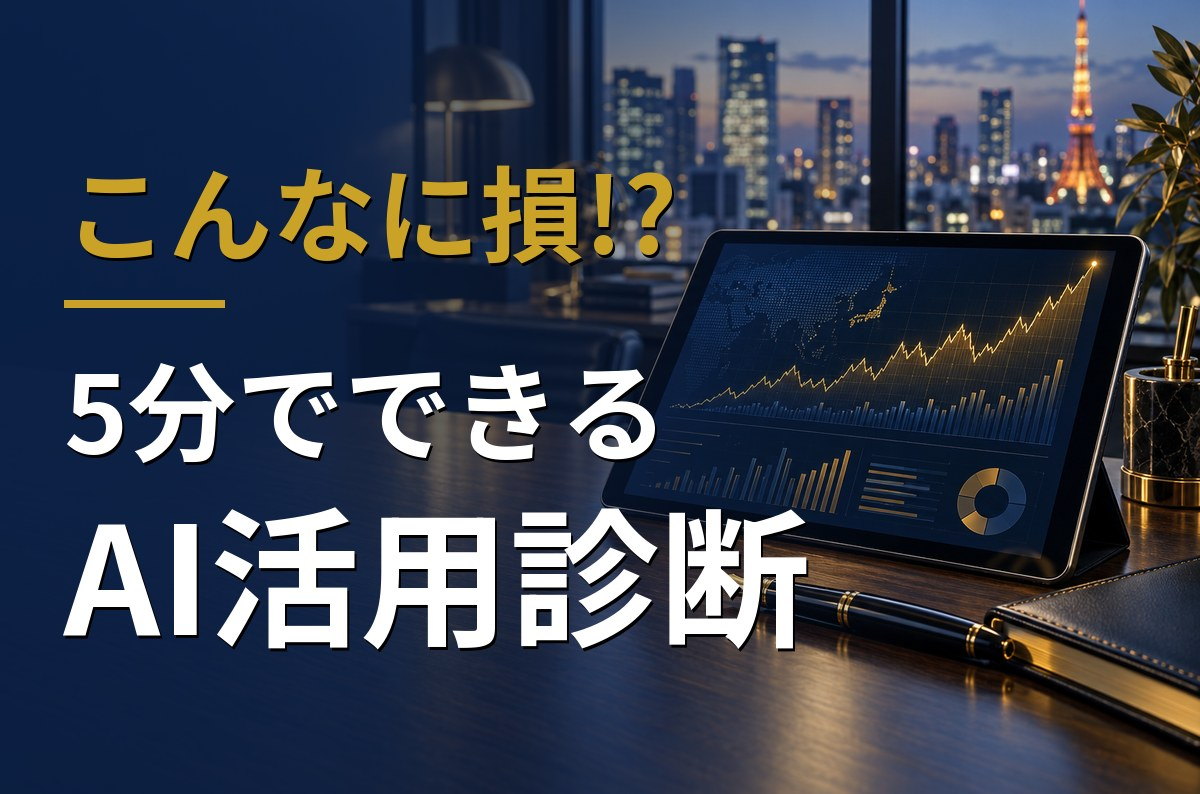
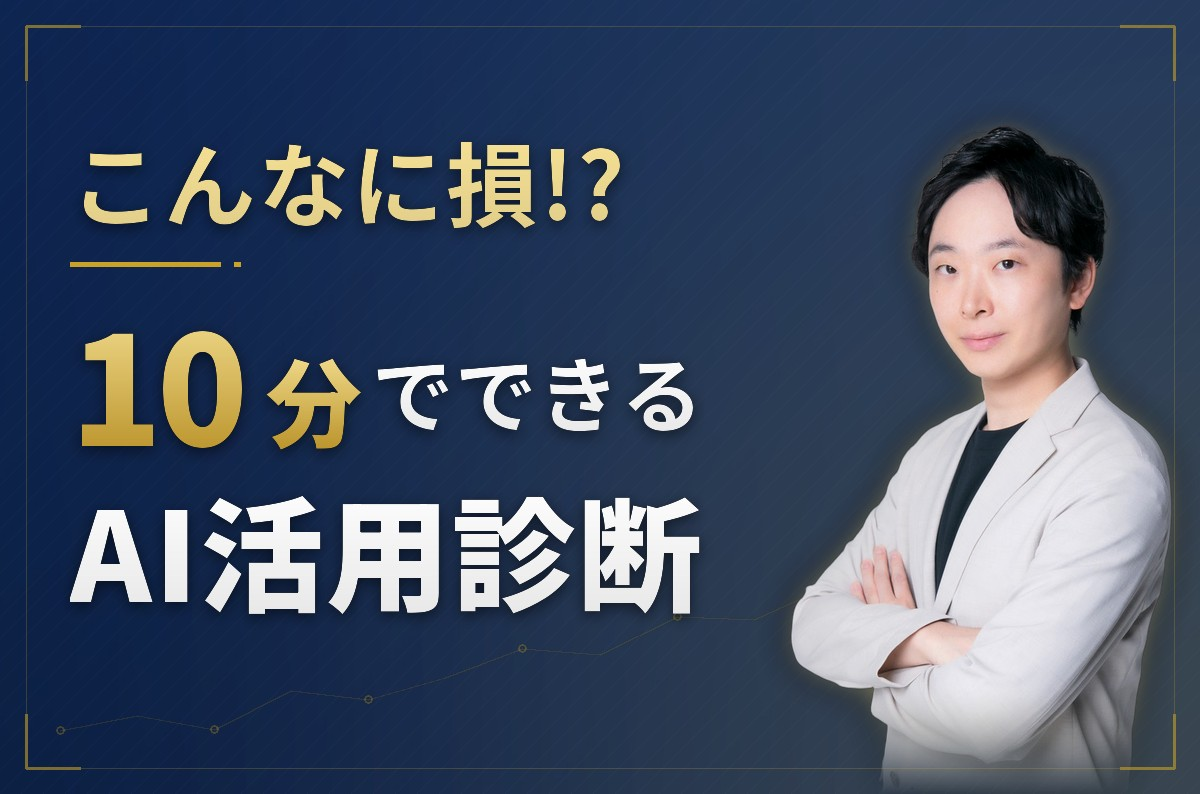
feat: クリエイティブを刷新、所要時間を10分に変更、補助金融資の文言を削除

diff --git a/app.js b/app.js
@@ -146,7 +146,7 @@
   }
 
   function rIntro() {
-    var el = h('<div><div class="hero-img"><img src="img/hero_liff.jpg" alt="AI導入しないあなたはいくら損してる？ 5分でできるAI活用診断"></div>' +
+    var el = h('<div><div class="hero-img"><img src="img/hero_liff.jpg" alt="AI導入しないあなたはいくら損してる？ 10分でできるAI活用診断"></div>' +
       '</div>');
     var saved = loadSaved();
     if (saved && saved.a && saved.a.industry) {
@@ -528,7 +528,7 @@
     var why = { A: '使われる仕組みまでAMI側で巻き取ります。入れて終わりにしないための順番です。', B: '入れる前に、使える人を全社で作ります。定着の第一歩です。', C: '経営と幹部が先に使えるようになると、現場に広がる順番が作れます。', D: '入れる前に、現場で使える人を作ります。定着の第一歩です。' }[route];
     var el = h('<div><div class="hero-img"><img src="img/header_presc.jpg" alt="御社の診断結果"></div><h2>' + esc(LABELS.route[route]) + '</h2><span class="route-tag">ルート ' + route + '</span></div>');
     var body = '';
-    if (route === 'A' || route === 'B') body += '<div class="card"><h3 style="margin-top:0">AMI（経営×AI・6ヶ月）</h3><p class="small">補助金・融資で投資負担を圧縮できる可能性があります（採択を保証するものではありません）。</p></div>';
+    if (route === 'A' || route === 'B') body += '<div class="card"><h3 style="margin-top:0">AMI（経営×AI・6ヶ月）</h3></div>';
     if (route !== 'A') {
       body += '<div class="card"><h3 style="margin-top:0">研修の目安（御社の' + est.headcount + '名の場合）</h3>';
       if (route === 'B' || route === 'D') body += '<p>従業員向け0→1 eラーニング研修：全社で ' + man(est.elearning_total) + '。人材開発支援助成金の要件を満たせば、自己負担は <b>' + man(est.elearning_self) + '</b> の見込みです。</p>';

diff --git a/index.html b/index.html
@@ -3,13 +3,13 @@
 <head>
 <meta charset="utf-8">
 <meta name="viewport" content="width=device-width, initial-scale=1, viewport-fit=cover">
-<title>AI導入しないあなたはいくら損してる？ 5分でできるAI活用診断</title>
+<title>AI導入しないあなたはいくら損してる？ 10分でできるAI活用診断</title>
 <link rel="stylesheet" href="style.css?v=58">
 </head>
 <body>
 <div id="app">
   <header class="top">
-    <div class="brand">5分でできるAI活用診断</div>
+    <div class="brand">10分でできるAI活用診断</div>
     <div class="progress"><div id="progress-fill"></div></div>
     <div class="progress-label"><span id="progress-left"></span><span id="progress-pct"></span></div>
   </header>
@@ -18,7 +18,7 @@
 </div>
 <div class="toast" id="toast"></div>
 <script src="https://static.line-scdn.net/liff/edge/2/sdk.js"></script>
-<script src="config.js?v=60"></script>
+<script src="config.js?v=61"></script>
 <script src="calc.js?v=58"></script>
 <script src="app.js?v=58"></script>
 </body>
